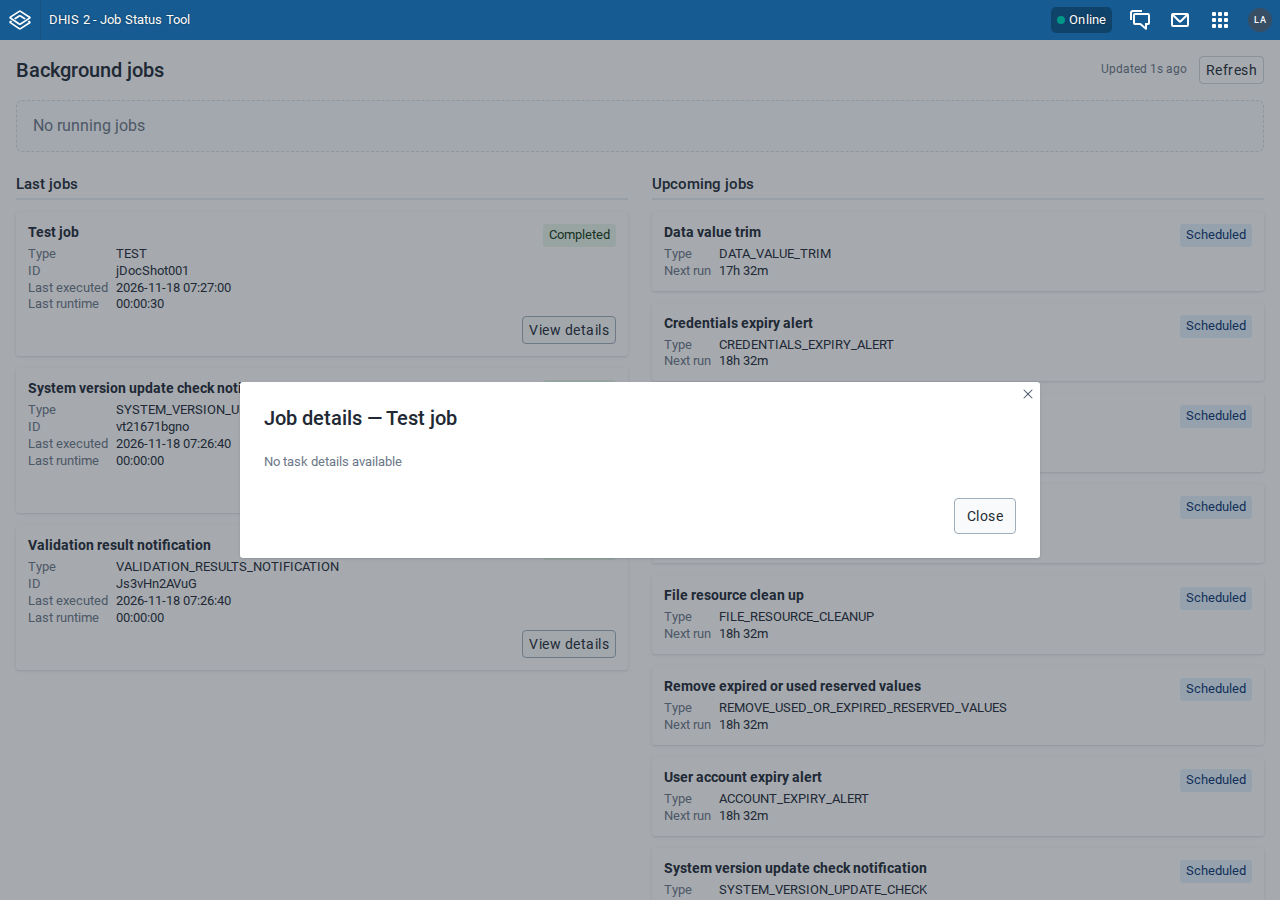
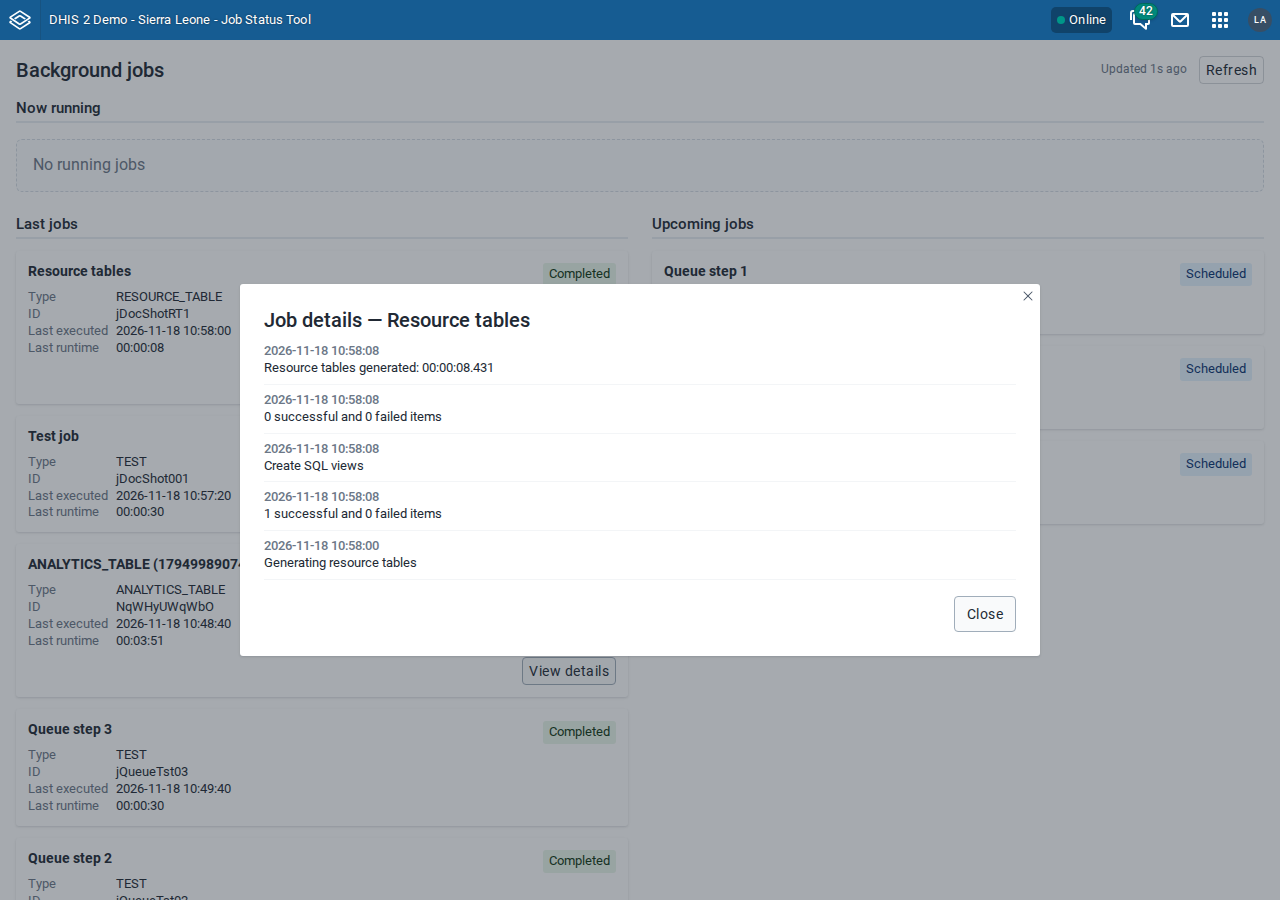
Update the user guide, screenshots and e2e expectations for the new layout

diff --git a/e2e/suite.py b/e2e/suite.py
@@ -286,7 +286,7 @@ def idle_jobs():
         "/jobConfigurations",
         params={
             "paging": "false",
-            "fields": "displayName,jobType,jobStatus,lastExecutedStatus,"
+            "fields": "displayName,jobType,jobStatus,enabled,lastExecutedStatus,"
             "lastFinished,nextExecutionTime",
         },
     )
@@ -305,7 +305,14 @@ def expected_lists():
     # A job that has never run reports lastExecutedStatus NOT_STARTED.
     last = [j for j in jobs if j.get("lastExecutedStatus") not in (None, "", "NOT_STARTED")]
     last.sort(key=lambda j: j.get("lastFinished") or "", reverse=True)
-    upcoming = [j for j in jobs if j.get("jobStatus") == "SCHEDULED" and j.get("nextExecutionTime")]
+    # The scheduler runs only enabled jobs, whatever jobStatus says.
+    upcoming = [
+        j
+        for j in jobs
+        if j.get("jobStatus") == "SCHEDULED"
+        and j.get("enabled") is not False
+        and j.get("nextExecutionTime")
+    ]
     upcoming.sort(key=lambda j: j["nextExecutionTime"])
     return (
         [j["displayName"] for j in last[:MAX_LAST_JOBS]],

diff --git a/docs/user/tool-job-status.md b/docs/user/tool-job-status.md
@@ -29,9 +29,13 @@ If you used a 0.x version of the tool, uninstall the old "Job Status Tool" app a
 
 Open the Job Status Tool. The page **Background jobs** has three parts:
 
-- **Now running** shows each job that runs now, with a progress line. A job in a job queue is shown with the other jobs in its queue, with its position, for example "Job 2 of 3". When nothing runs, the page shows "No running jobs".
+- **Now running** shows each job that runs now, with a progress line. When a job in a job queue runs, the queue is shown in a box with all its jobs and their positions, for example "Job 2 of 3". When a queue runs, jobs outside any queue are shown in a box **Not in a queue**. When nothing runs, the page shows "No running jobs".
 - **Last jobs** shows the six jobs that finished most recently, with their status, the time they started and how long they ran.
-- **Upcoming jobs** shows the next ten scheduled jobs and the time until each one runs.
+- **Upcoming jobs** shows the next ten scheduled jobs that are switched on, and the time until each one runs.
+
+DHIS2 can run jobs of different types at the same time, so more than one job can be shown under **Now running**. Two jobs of the same type never run at the same time.
+
+To see the parameters of a running job, click **Parameters** on its card.
 
 All times are in the time zone of the DHIS2 server, which can be different from your own.
 

diff --git a/CHANGELOG.md b/CHANGELOG.md
@@ -2,6 +2,28 @@
 
 All notable changes to this project will be documented in this file.
 
+## [Unreleased]
+
+### Changed
+
+- The parameters of a running job are collapsed under **Parameters**, so the progress
+  line and Cancel stay in view; an analytics job alone has 14 parameter rows.
+- "Now running" is one heading for everything that runs. Each running queue is a
+  box labelled with the queue's name, and jobs outside a queue are labelled "Not in
+  a queue" when a queue runs too. Before, the box of jobs outside a queue was
+  titled "Now running", which made a running queue look separate from it.
+- The queue position ("Job 2 of 3") is a label aligned with the job name, not a grey
+  bar.
+
+### Fixed
+
+- Upcoming jobs leaves out jobs that are switched off. A job switched off directly
+  in the database can keep the status `SCHEDULED`, and the tool listed it, often as
+  "Due now"; the scheduler skips it (dhis2-core runs only `enabled` jobs, 2.40 to
+  2.43).
+- The spacing inside job cards. The DHIS2 UI `Card` sets its own `display`, which
+  overrode the card layout, so its gaps and bottom-aligned buttons were lost.
+
 ## [1.1.0] - 2026-11-18
 
 ### Changed
